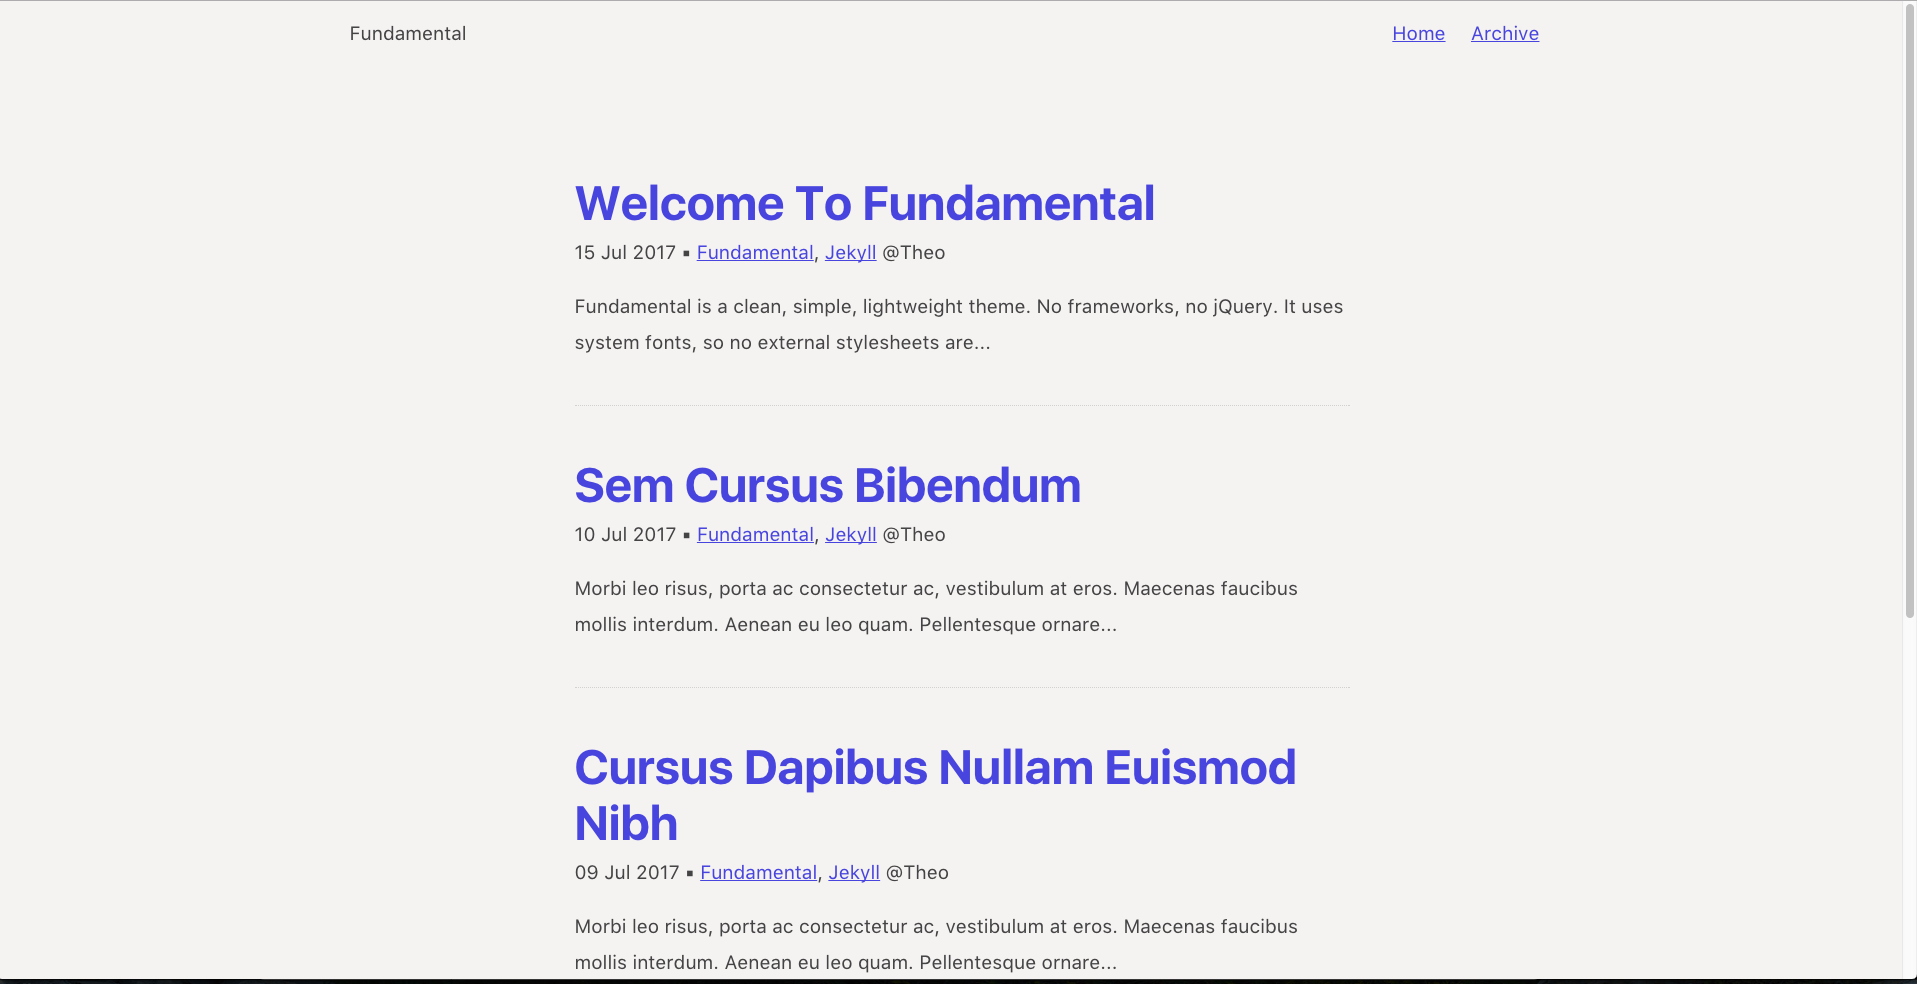
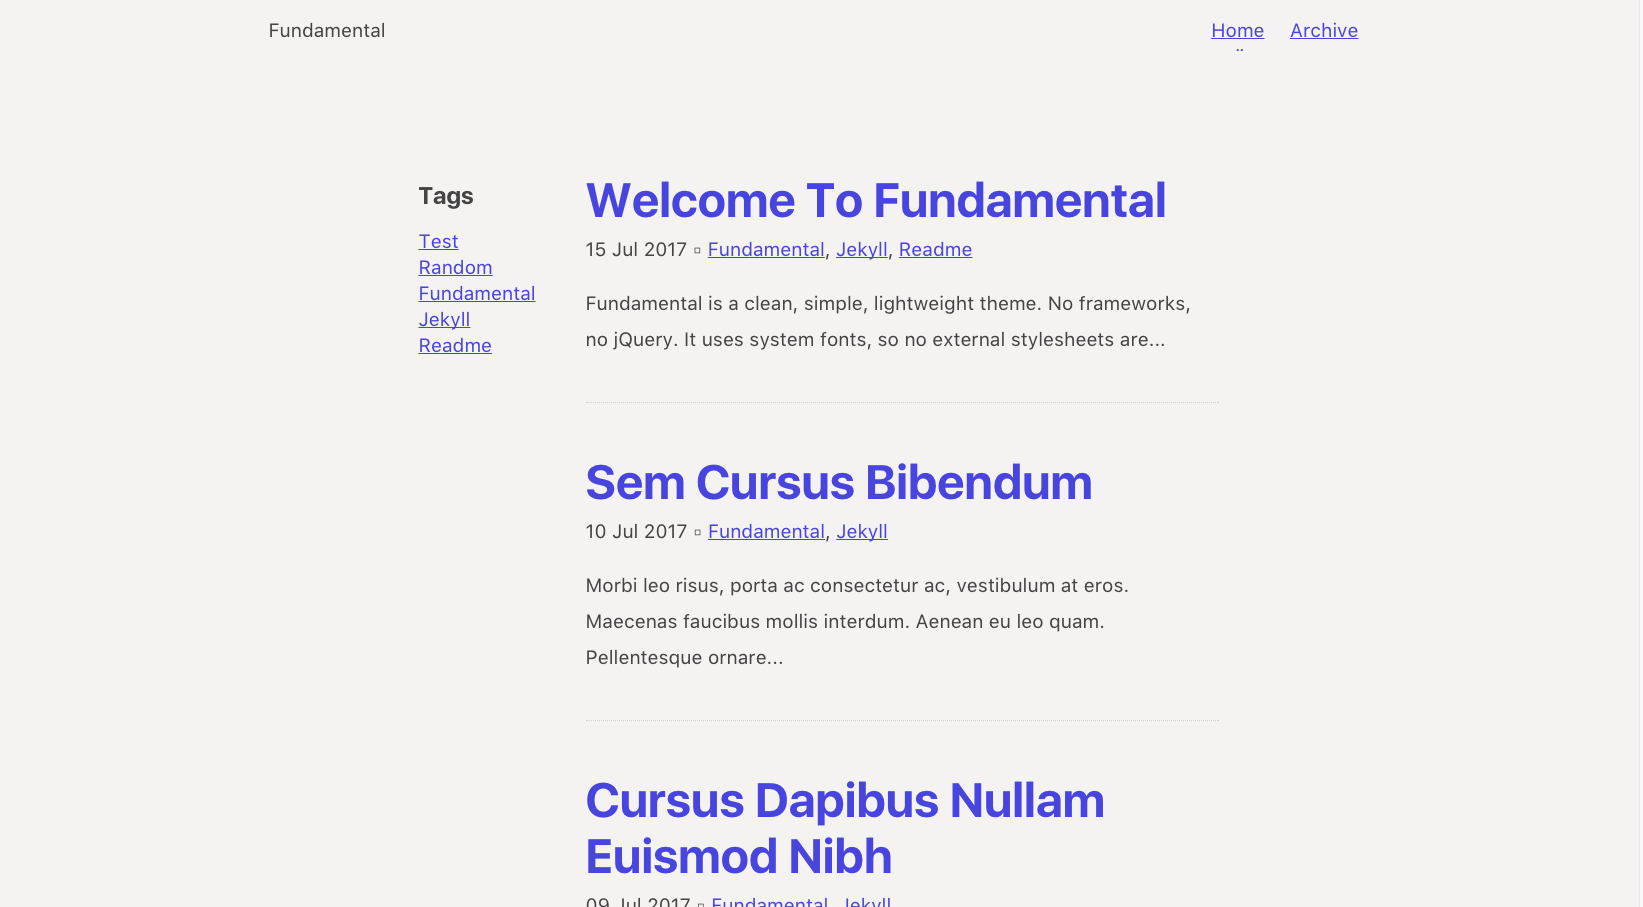
readme image

diff --git a/README.md b/README.md
@@ -1,9 +1,17 @@
-# ![alt text](assets/images/logo.svg)
----
-
-***Not yet released**  
+# ![alt text](http://theomjones.com/fundamental/assets/images/logo.svg)
 
 Fundamental is a clean, simple, lightweight theme. No frameworks, no jQuery. It uses system fonts, so no external stylesheets are loaded. The CSS is just 2Kb gzipped.
+
+## Features
+
+- Tag support
+- Archive by year support (more to come!)
+- Breadcrumbs
+- Editable color palette: (`_variables.scss`)
+- Subdirectory support
+- Automatic header navigation 
+- Syntax highlighting 
+
 
 ## Installation
 
@@ -30,6 +38,7 @@ Or install it yourself as:
 ## Usage
 
 ### Getting Started
+
 The top navigation loops through the sites pages that have `menu: true` in the front matter. You can also order the pages by setting the value of `order`
 
 For instance: `order: 2`
